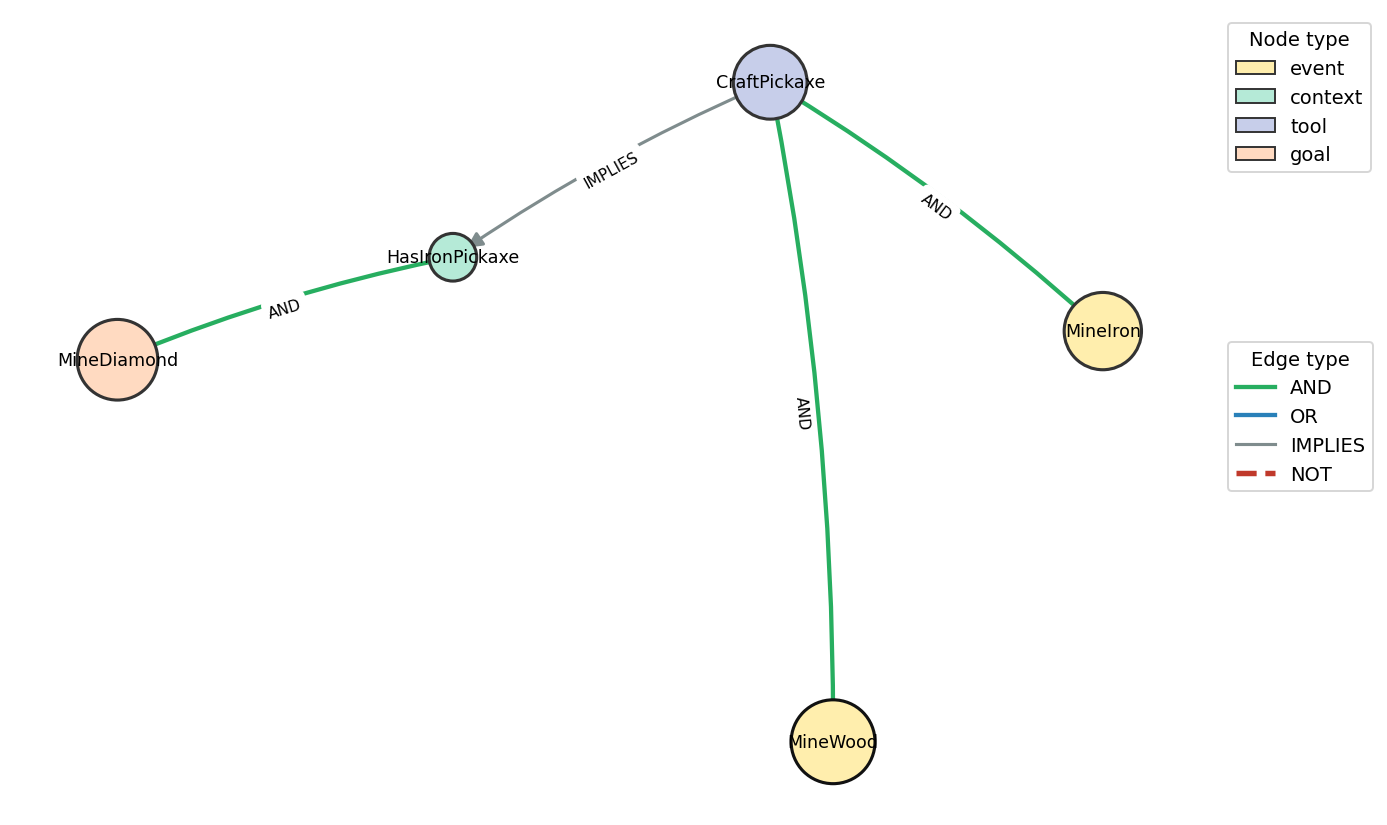
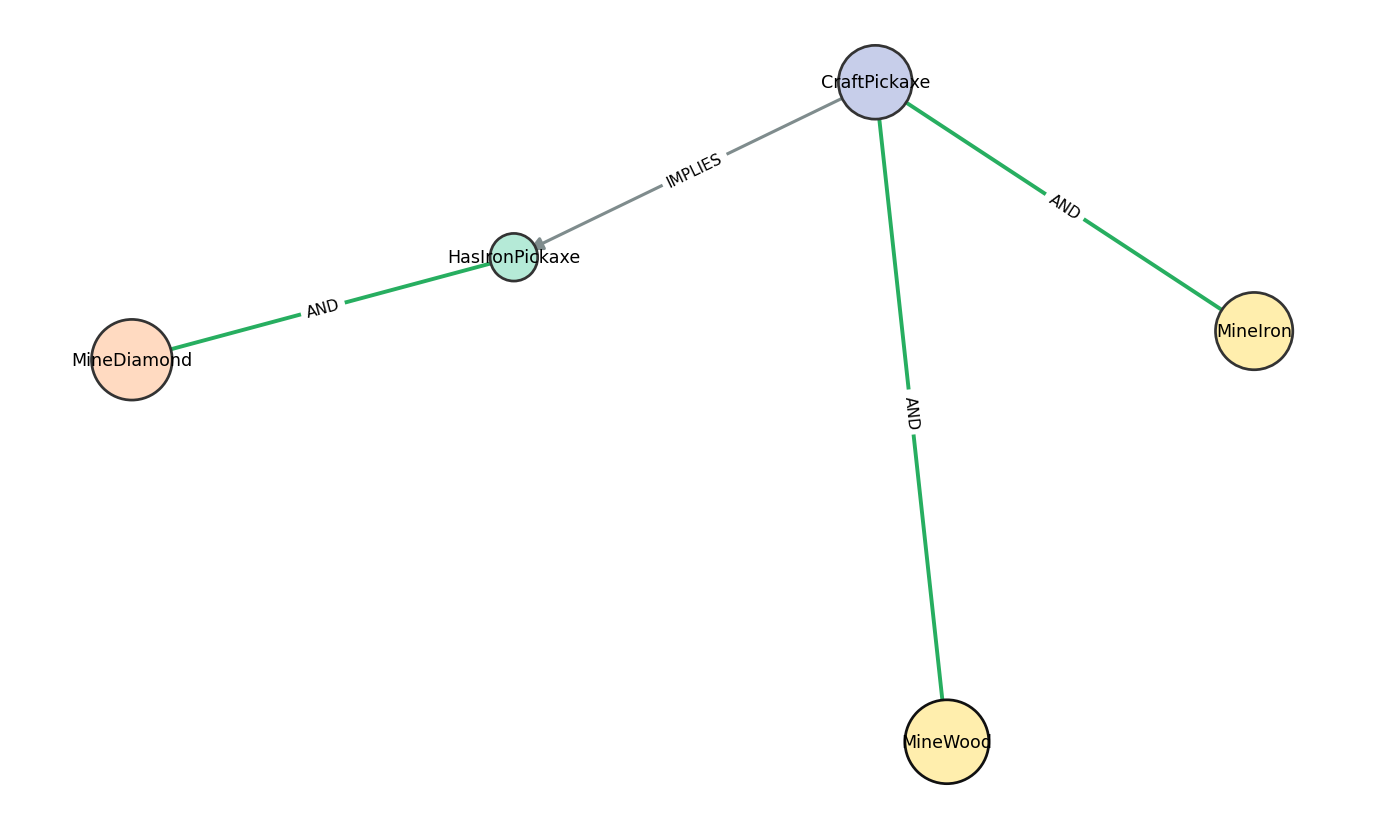
Simplified graph visualizer

diff --git a/utils/graph_visualization.py b/utils/graph_visualization.py
@@ -1,194 +1,97 @@
-import argparse, json, math, sys, os
+#!/usr/bin/env python3
+# Minimal KG visualizer: spring layout only, tiny CLI.
+# Usage:
+#   python utils/graph_visualization.py -i data/knowledge_graphs/mock_graph.json -o data/knowledge_graphs/mock_graph.png
+#   (omit -o to show an interactive window)
 
-# Optional deps; we fall back gracefully
-try:
-    import networkx as nx  # type: ignore
-except Exception:
-    nx = None
-
-try:
-    from networkx.drawing.nx_agraph import graphviz_layout  # type: ignore
-    _HAS_GRAPHVIZ = True
-except Exception:
-    _HAS_GRAPHVIZ = False
-
-try:
-    import matplotlib.pyplot as plt  # type: ignore
-except Exception:
-    plt = None
-
+import json, os, argparse
+import networkx as nx
+import matplotlib.pyplot as plt
 
 TYPE_COLORS = {
-    "event": "#FFEEAD",
+    "event":   "#FFEEAD",
     "context": "#B5EAD7",
-    "tool": "#C7CEEA",
-    "goal": "#FFDAC1",
+    "tool":    "#C7CEEA",
+    "goal":    "#FFDAC1",
 }
-
 EDGE_STYLE = {
-    "AND":  {"color": "#27ae60", "style": "solid",  "width": 2.2},
-    "OR":   {"color": "#2980b9", "style": "solid",  "width": 2.2},
-    "IMPLIES": {"color": "#7f8c8d", "style": "solid", "width": 1.6},
-    "NOT":  {"color": "#c0392b", "style": "dashed", "width": 2.8},
+    "AND":     {"color": "#27ae60", "style": "solid",  "width": 2.0},
+    "OR":      {"color": "#2980b9", "style": "solid",  "width": 2.0},
+    "IMPLIES": {"color": "#7f8c8d", "style": "solid",  "width": 1.6},
+    "NOT":     {"color": "#c0392b", "style": "dashed", "width": 2.4},
 }
 
-def load_json_graph(path):
+def load_graph_json(path):
     with open(path, "r", encoding="utf-8") as f:
-        data = json.load(f)
-    # Validate minimal shape
-    if "nodes" not in data or "edges" not in data:
-        raise ValueError("JSON missing 'nodes' or 'edges' keys; expected output of KnowledgeGraph.save_to_json")
-    return data
+        return json.load(f)
 
-def build_nx(data):
-    if nx is None:
-        raise RuntimeError("This script requires networkx. Try: pip install networkx matplotlib pygraphviz")
+def build_graph(data):
     G = nx.DiGraph()
     for n in data["nodes"]:
-        # id, type, data
-        nid = n["id"]
-        ntype = n.get("type", "")
-        meta = n.get("data", {}) or {}
-        G.add_node(nid, type=ntype, **meta)
+        G.add_node(n["id"], type=n.get("type",""), **(n.get("data", {}) or {}))
     for e in data["edges"]:
         G.add_edge(e["source"], e["target"], etype=e.get("type", "IMPLIES"))
     return G
 
-def compute_layout(G, layout, seed=42):
-    if layout == "graphviz" and _HAS_GRAPHVIZ:
-        pos = graphviz_layout(G, prog="dot")
-        # swap to approximate LR
-        return {k: (v[1], -v[0]) for k, v in pos.items()}
-    # spring fallback
-    k = 1 / math.sqrt(max(1, len(G)))
-    return nx.spring_layout(G, seed=seed, k=k)
-
-def draw_graph(G, pos, with_labels=True, figsize=(10,6), dpi=140):
-    if plt is None:
-        raise RuntimeError("This script requires matplotlib. Try: pip install matplotlib")
-
+def draw(G, with_labels=True, width=10, height=6, dpi=140):
+    pos = nx.spring_layout(G, seed=42)
     # Nodes
     node_colors, node_sizes, outlines = [], [], []
-    for n, attrs in G.nodes(data=True):
-        ntype = attrs.get("type", "")
-        node_colors.append(TYPE_COLORS.get(ntype, "#E0E0E0"))
+    for nid, attrs in G.nodes(data=True):
+        node_colors.append(TYPE_COLORS.get(attrs.get("type",""), "#E0E0E0"))
         conf = float(attrs.get("confidence", attrs.get("success_rate", 0.0)) or 0.0)
-        conf = max(0.0, min(1.0, conf))
+        conf = min(max(conf, 0.0), 1.0)
         node_sizes.append(600 + 1400 * conf)
         outlines.append("#111111" if attrs.get("visited", False) else "#333333")
 
     # Edges
-    edge_solid, edge_dashed = [], []
-    edge_colors_solid, edge_colors_dashed = [], []
-    edge_widths_solid, edge_widths_dashed = [], []
+    solid, dashed = [], []
+    solid_colors, dashed_colors, solid_w, dashed_w = [], [], [], []
     edge_labels = {}
     for u, v, a in G.edges(data=True):
         et = a.get("etype", "IMPLIES")
-        style = EDGE_STYLE.get(et, EDGE_STYLE["IMPLIES"])
-        (edge_solid if style["style"] == "solid" else edge_dashed).append((u, v))
-        (edge_colors_solid if style["style"] == "solid" else edge_colors_dashed).append(style["color"])
-        (edge_widths_solid if style["style"] == "solid" else edge_widths_dashed).append(style["width"])
+        st = EDGE_STYLE.get(et, EDGE_STYLE["IMPLIES"])
+        (solid if st["style"] == "solid" else dashed).append((u, v))
+        (solid_colors if st["style"] == "solid" else dashed_colors).append(st["color"])
+        (solid_w if st["style"] == "solid" else dashed_w).append(st["width"])
         edge_labels[(u, v)] = et
 
-    plt.figure(figsize=figsize, dpi=dpi)
+    plt.figure(figsize=(width, height), dpi=dpi)
     nx.draw_networkx_nodes(G, pos, node_color=node_colors, node_size=node_sizes,
-                           edgecolors=outlines, linewidths=1.6)
-
-    if edge_solid:
-        nx.draw_networkx_edges(
-            G, pos, edgelist=edge_solid, edge_color=edge_colors_solid, width=edge_widths_solid,
-            arrows=True, arrowstyle='-|>', arrowsize=16, connectionstyle="arc3,rad=0.05"
-        )
-    if edge_dashed:
-        nx.draw_networkx_edges(
-            G, pos, edgelist=edge_dashed, edge_color=edge_colors_dashed, width=edge_widths_dashed,
-            style="dashed", arrows=True, arrowstyle='-|>', arrowsize=16, connectionstyle="arc3,rad=0.05"
-        )
+                           edgecolors=outlines, linewidths=1.4)
+    if solid:
+        nx.draw_networkx_edges(G, pos, edgelist=solid, edge_color=solid_colors, width=solid_w,
+                               arrows=True, arrowstyle='-|>', arrowsize=14)
+    if dashed:
+        nx.draw_networkx_edges(G, pos, edgelist=dashed, edge_color=dashed_colors, width=dashed_w,
+                               style="dashed", arrows=True, arrowstyle='-|>', arrowsize=14)
 
     if with_labels:
         nx.draw_networkx_labels(G, pos, font_size=9)
         nx.draw_networkx_edge_labels(G, pos, edge_labels=edge_labels, font_size=8, label_pos=0.5)
 
-    # Legend (simple)
-    import matplotlib.patches as mpatches
-    from matplotlib.lines import Line2D
-    node_legend = [mpatches.Patch(facecolor=c, edgecolor="#333333", label=t) for t, c in TYPE_COLORS.items()]
-    edge_legend = [
-        Line2D([0], [0], color=EDGE_STYLE["AND"]["color"], lw=2.2, label="AND"),
-        Line2D([0], [0], color=EDGE_STYLE["OR"]["color"], lw=2.2, label="OR"),
-        Line2D([0], [0], color=EDGE_STYLE["IMPLIES"]["color"], lw=1.6, label="IMPLIES"),
-        Line2D([0], [0], color=EDGE_STYLE["NOT"]["color"], lw=2.8, linestyle="--", label="NOT"),
-    ]
-    leg1 = plt.legend(handles=node_legend, title="Node type", loc="upper left", bbox_to_anchor=(1.01, 1.0))
-    plt.gca().add_artist(leg1)
-    plt.legend(handles=edge_legend, title="Edge type", loc="upper left", bbox_to_anchor=(1.01, 0.6))
-
     plt.axis("off")
     return plt
 
-def export_dot(data, path):
-    def esc(s: str) -> str:
-        return s.replace('"', r'\"')
-    lines = ['digraph KG {', '  rankdir=LR;']
-    for n in data["nodes"]:
-        nid = n["id"]; ntype = n.get("type",""); meta = n.get("data", {}) or {}
-        visited = meta.get("visited", False)
-        base = TYPE_COLORS.get(ntype, "#E0E0E0")
-        outline = "#111111" if visited else "#333333"
-        conf = float(meta.get("confidence", meta.get("success_rate", 0.0)) or 0.0)
-        conf = max(0.0, min(1.0, conf))
-        penwidth = 1 + 2 * conf
-        label = f"{nid}\\n({ntype})" if ntype else f"{nid}"
-        lines.append(
-            f'  "{esc(nid)}" [label="{esc(label)}", fillcolor="{base}", color="{outline}", style="filled", penwidth={penwidth}];'
-        )
-    for e in data["edges"]:
-        et = e.get("type", "IMPLIES")
-        style = EDGE_STYLE.get(et, EDGE_STYLE["IMPLIES"])
-        lines.append(
-            f'  "{esc(e["source"])}" -> "{esc(e["target"])}" [label="{et}", color="{style["color"]}", style="{style["style"]}", penwidth={style["width"]}];'
-        )
-    lines.append('}')
-    with open(path, "w", encoding="utf-8") as f:
-        f.write("\n".join(lines))
-
 def main():
-    ap = argparse.ArgumentParser(description="Visualize a KnowledgeGraph JSON file.")
-    ap.add_argument("--input", "-i", required=True, help="Path to graph.json produced by KnowledgeGraph.save_to_json")
-    ap.add_argument("--out", "-o", help="Image path to save (png/svg/pdf). If omitted, just shows window.")
-    ap.add_argument("--dot", help="Also export Graphviz DOT to this path.")
-    ap.add_argument("--layout", choices=["graphviz","spring"], default="graphviz",
-                    help="Layout engine (graphviz uses pygraphviz if available; falls back to spring).")
+    ap = argparse.ArgumentParser(description="Minimal KG visualizer (spring layout).")
+    ap.add_argument("-i", "--input", required=True, help="Path to graph JSON.")
+    ap.add_argument("-o", "--out", help="Output image path (png/svg/pdf). If omitted, shows window.")
     ap.add_argument("--no-labels", action="store_true", help="Hide node/edge labels.")
-    ap.add_argument("--dpi", type=int, default=140, help="Figure DPI.")
-    ap.add_argument("--width", type=float, default=10.0, help="Figure width inches.")
-    ap.add_argument("--height", type=float, default=6.0, help="Figure height inches.")
-    ap.add_argument("--seed", type=int, default=42, help="Seed for spring layout.")
     args = ap.parse_args()
 
-    data = load_json_graph(args.input)
-
-    if args.dot:
-        export_dot(data, args.dot)
-        print(f"Wrote DOT: {args.dot}")
-
-    G = build_nx(data)
-    pos = compute_layout(G, args.layout, seed=args.seed)
-    pltobj = draw_graph(G, pos, with_labels=not args.no_labels,
-                        figsize=(args.width, args.height), dpi=args.dpi)
+    data = load_graph_json(args.input)
+    G = build_graph(data)
+    fig = draw(G, with_labels=not args.no_labels)
 
     if args.out:
         os.makedirs(os.path.dirname(args.out) or ".", exist_ok=True)
-        pltobj.tight_layout()
-        pltobj.savefig(args.out, bbox_inches="tight")
-        print(f"Wrote image: {args.out}")
-        pltobj.close()
+        fig.tight_layout()
+        fig.savefig(args.out, bbox_inches="tight")
+        print(f"Wrote: {os.path.abspath(args.out)}")
+        fig.close()
     else:
-        pltobj.show()
+        plt.show()
 
 if __name__ == "__main__":
-    try:
-        main()
-    except Exception as e:
-        print(f"[visualize_kg] ERROR: {e}", file=sys.stderr)
-        sys.exit(1)
+    main()
